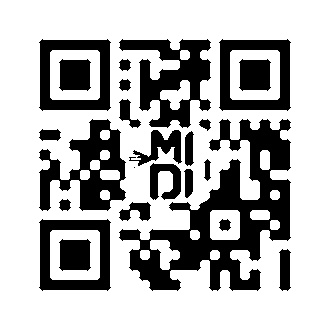
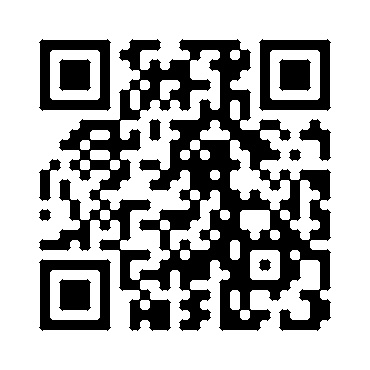
Complete logic. Needs only testing and correct data Added: QR generator Quest loading logic Regenerated gateways QRs are uploaded to the google drive folder

diff --git a/main.py b/main.py
@@ -7,6 +7,7 @@ import maps
 import decode
 import random
 import os
+import json
 """
 Requires (pip install <module>):
 discord
@@ -97,9 +98,10 @@ async def on_message(ctx):
                 await channel.send(embed=maps.load_all(str(author.id)))
         elif command == "quest" or command == "quests":
             guild = functions.load_guild(functions.find_user(str(author.id)))
+            data = " ".join(ctx.content.split(" ")[1:])
             if data:
                 if data.isdigit() and 0 < int(data) < len(guild.questTokens):
-                    maps.load_quest(guild.questTokens.keys()[int(data)-1], False)
+                    await channel.send(embed=maps.load_quest(list(guild.questTokens.keys())[int(data)-1], False))
                 else:
                     result = maps.get_task(str(author.id), data)
                     if result:
@@ -140,14 +142,26 @@ async def on_message(ctx):
                 sub_channel = get(ctx.guild.channels, id=962275479564468224)
                 if file.filename.lower().endswith(".png") or file.filename.lower().endswith(".jpg") or file.filename.lower().endswith(".jpeg"):
                     text = decode.decode_qr(file)
-                    text = ' '.join(text.split(" ")[1:])
                     if text:
-                        await channel.send(text)
-                        """
-                        result = maps.get_task(str(author.id), text)
-                        if result:
-                            await channel.send(result)
-                        """
+                        text = text.split(" ")
+                        command = text[0]
+                        text = ' '.join(text[1:])
+                        if command == "quest" and text:
+                            print(text)
+                            result = maps.get_task(str(author.id), text)
+                            if result:
+                                await channel.send(embed=result)
+                            else:
+                                await sub_channel.send("Unexpected image at channel: <#" + str(channel.id) + ">")
+                        elif command == "map" and text:
+                            result = maps.load_map(str(author.id), text)
+                            if result:
+                                await channel.send(embed=result)
+                            else:
+                                await sub_channel.send("Unexpected image at channel: <#" + str(channel.id) + ">")
+                        elif text:
+                            await channel.send(command + " " + text)
+                            await sub_channel.send("Unexpected image at channel: <#" + str(channel.id) + ">")
                     else:
                         await sub_channel.send("Unexpected image at channel: <#" + str(channel.id) + ">")
                 else:
@@ -172,14 +186,13 @@ async def create_guild(ctx, guildname):
         channel = await guild.create_text_channel(guildname, overwrites=overwrites)
         functions.create_guild(guildname, str(member.id), channel.id)
         # THIS WILL BE VISIBLE:
-        await channel.send("Your free map is:")
-        await channel.send(embed=maps.load_map(str(member.id), random.choice(["mobil avenue", "zion", "mega city", "backdoor"])))
-        await channel.send(embed=maps.load_all(str(member.id)))
-
+        await channel.send("Your free map is: " + random.choice(["mobil avenue", "zion", "mega city", "backdoor"]) + "\nYou can access the map by using the \"map <map_name>\" command")
+        embed = maps.load_all(str(member.id))
+        embed.set_footer(text="You can access this menu by using command \"map\"")
+        await channel.send(embed=embed)
         return True
     except Exception as e:
         print(e)
         return False
-
 
 bot.run(TOKEN)

diff --git a/maps.py b/maps.py
@@ -26,13 +26,13 @@ def check_answer(uid, answer):
     with open("quests.json", "r") as f:
         data = json.load(f)
         if answer in data.keys():
-            quest = Quest(*data[answer])
+            quest = Quest(*data[answer].values())
             if quest.map in guild.mapTokens:
-                result = guild.add_points(data[answer]["reward"], answer)
+                result = guild.add_points(quest.reward, answer)
                 functions.upload_guild(guild)
                 if result:
-                    return 'Quest "' + str(data[answer]["name"]) + '" completed\nReward: ' + str(
-                        data[answer]["reward"]) + ' points'
+                    return 'Quest "' + str(quest.name) + '" completed\nReward: ' + str(
+                        quest.reward) + ' points'
             else:
                 return "You haven't unlocked this map"
 
@@ -43,27 +43,32 @@ def get_task(uid, quest_id):
         if quest_id in data.keys():
             guildname = functions.find_user(uid)
             guild = functions.load_guild(guildname)
-            answer = data[quest_id]
+            answer = data[quest_id]["answer"]
             if guild.add_qtoken(answer):
+                guild.add_points(data[quest_id]["spot_reward"], None)
+                functions.upload_guild(guild)
+                return load_quest(answer, True)
+            return load_quest(answer, False)
+    with open("gateway2.json", "r") as f:
+        data = json.load(f)
+        if quest_id.lower() in data.keys():
+            guildname = functions.find_user(uid)
+            guild = functions.load_guild(guildname)
+            answer = data[quest_id.lower()]["answer"]
+            if guild.add_qtoken(answer):
+                guild.add_points(data[quest_id.lower()]["spot_reward"], None)
+                functions.upload_guild(guild)
                 return load_quest(answer, True)
             return load_quest(answer, False)
 
 
-def upload_quests():
-    with open("quests.json", "w") as f:
-        quest_dict = {}
-        for wmap in map_dict.keys():
-            for quest in map_dict[wmap].quests:
-                quest_dict[quest.answer] = quest.__dict__
-        json.dump(quest_dict, f)
-
-
 def load_quest(answer, new):
     with open("quests.json", "r") as f:
-        quest = Quest(*json.load(f)[answer])
-        embed = discord.Embed(title=quest.name, description=quest.task)
+        quest = json.load(f)[answer]
+        embed = discord.Embed(title=quest["name"], description=quest["task"])
         if new:
-            embed.set_footer(text=glitch("Reward for unlocking this quest: ") + str(quest.spot_reward))
+            embed.set_footer(text=glitch("Reward for unlocking this quest: ") + str(quest["spot_reward"]))
+    return embed
 
 
 """**********************************************************
@@ -238,7 +243,7 @@ map_dict = {
 
 
 def glitch(string):
-    if random.random() < 0.1:
+    if random.random() < 0.2:
         new_string = ""
         for letter in string:
             if random.randint(0, 5):

diff --git a/QRgenerator.py b/QRgenerator.py
@@ -1,36 +1,76 @@
 import qrcode
 from PIL import Image
+import random
+import json
+import maps
+
+
+def random_string(n):
+    rand_string = ""
+    for i in range(0, n):
+        rand_string += random.choice("abcdefghijklmnopqrstuvwxyzABCDEFGHIJKLMNOPQRSTUVWXYZ123456789")
+    return rand_string
+
+
+# Uploads current quests
+with open("quests.json", "w") as f:
+    quest_dict = {}
+    for wmap in maps.map_dict.keys():
+        for quest in maps.map_dict[wmap].quests:
+            quest_dict[quest.answer] = quest.__dict__
+    json.dump(quest_dict, f)
+
 
 # taking image which user wants in the QR code center
-logo = Image.open('../midi.png')
+logo = Image.open('../midi2.png')
 
 # taking base width
-basewidth = 80
+basewidth = 100
 
 # adjust image size
 wpercent = (basewidth / float(logo.size[0]))
 hsize = int((float(logo.size[1]) * float(wpercent)))
 logo = logo.resize((basewidth, hsize), Image.ANTIALIAS)
-QRcode = qrcode.QRCode(
-    error_correction=qrcode.constants.ERROR_CORRECT_H
-)
 
-# taking url or text
-url = 'Tavo Mama'
+# generates gateway
+new_dict = {}
+new_dict2 = {}
+with open("quests.json", "r") as f:
+    data = json.load(f)
+    for answer in data.keys():
+        QRcode = qrcode.QRCode(
+            error_correction=qrcode.constants.ERROR_CORRECT_H
+        )
+        # taking url or text
+        quest_id = random_string(10)
+        url = "quest " + quest_id
 
-# adding URL or text to QRcode
-QRcode.add_data(url)
+        # adding URL or text to QRcode
+        QRcode.add_data(url)
+        new_dict[quest_id] = {"answer": answer, "spot_reward": data[answer]["spot_reward"]}
+        new_dict2[data[answer]["name"].lower()] = {"answer": answer, "spot_reward": data[answer]["spot_reward"]}
+        # generating QR code
+        QRcode.make()
 
-# generating QR code
-QRcode.make()
+        # adding color to QR code
+        QRimg = QRcode.make_image(fill_color="black", back_color="white").convert('RGB')
+        QRimg.save("../QR/" + data[answer]["name"] + ".png")
+        # set size of QR code
 
-# adding color to QR code
-QRimg = QRcode.make_image(fill_color="black", back_color="white").convert('RGB')
+        pos = ((QRimg.size[0] - logo.size[0]) // 2,
+               (QRimg.size[1] - logo.size[1]) // 2)
+        QRimg.paste(logo, pos)
 
-# set size of QR code
-pos = ((QRimg.size[0] - logo.size[0]) // 2,
-       (QRimg.size[1] - logo.size[1]) // 2)
-QRimg.paste(logo, pos)
+        # save the QR code generated
+        # QRimg.save("../QR2/" + data[answer]["name"] + ".png")
+        QRimg.save("../QR2/" + data[answer]["name"] + ".png")
 
-# save the QR code generated
-QRimg.save('../attempt.png')
+# For QRs
+
+with open("gateway.json", "w") as f:
+    json.dump(new_dict, f)
+
+# for those who'll be using full names (default is by index, that eventually uses gateway.json)
+with open("gateway2.json", "w") as f:
+    json.dump(new_dict2, f)
+

diff --git a/functions.py b/functions.py
@@ -64,6 +64,8 @@ class Guild:
         if qtoken:
             if self.questTokens[qtoken]:
                 return None
+            else:
+                self.questTokens[qtoken] = True
         self.points += value
         with open("guildlist.json", "r+") as f:
             data = json.load(f)
@@ -71,6 +73,7 @@ class Guild:
             f.seek(0)
             f.truncate()
             json.dump(data, f)
+            return True
 
     def add_qtoken(self, token):
         if self.questTokens:
@@ -112,10 +115,10 @@ class Guild:
                 qindex = 1
                 for qtoken in self.questTokens.keys():
                     if self.questTokens[qtoken]:
-                        temp_str += str(qindex) + "~~" + data[qtoken].name + "~~\n"
+                        temp_str += str(qindex) + " ~~" + data[qtoken]["name"] + "~~\n"
                         qindex += 1
                     else:
-                        temp_str += str(qindex) + random_string(10) + "\n"
+                        temp_str += str(qindex) + " " + random_string(10) + "\n"
                         qindex += 1
                 embed.add_field(name="_ _", value=temp_str, inline=False)
                 embed.set_footer(text="You can access already unlocked quests by typing \"quest<number>\" command")

diff --git a/decode.py b/decode.py
@@ -39,9 +39,3 @@ def decode_qr(url):
     else:
         print("Timed Out")
 
-
-def hash_to_num(string):
-    suma = 0
-    for letter in string:
-        suma += ord(letter)
-    return suma % 5
